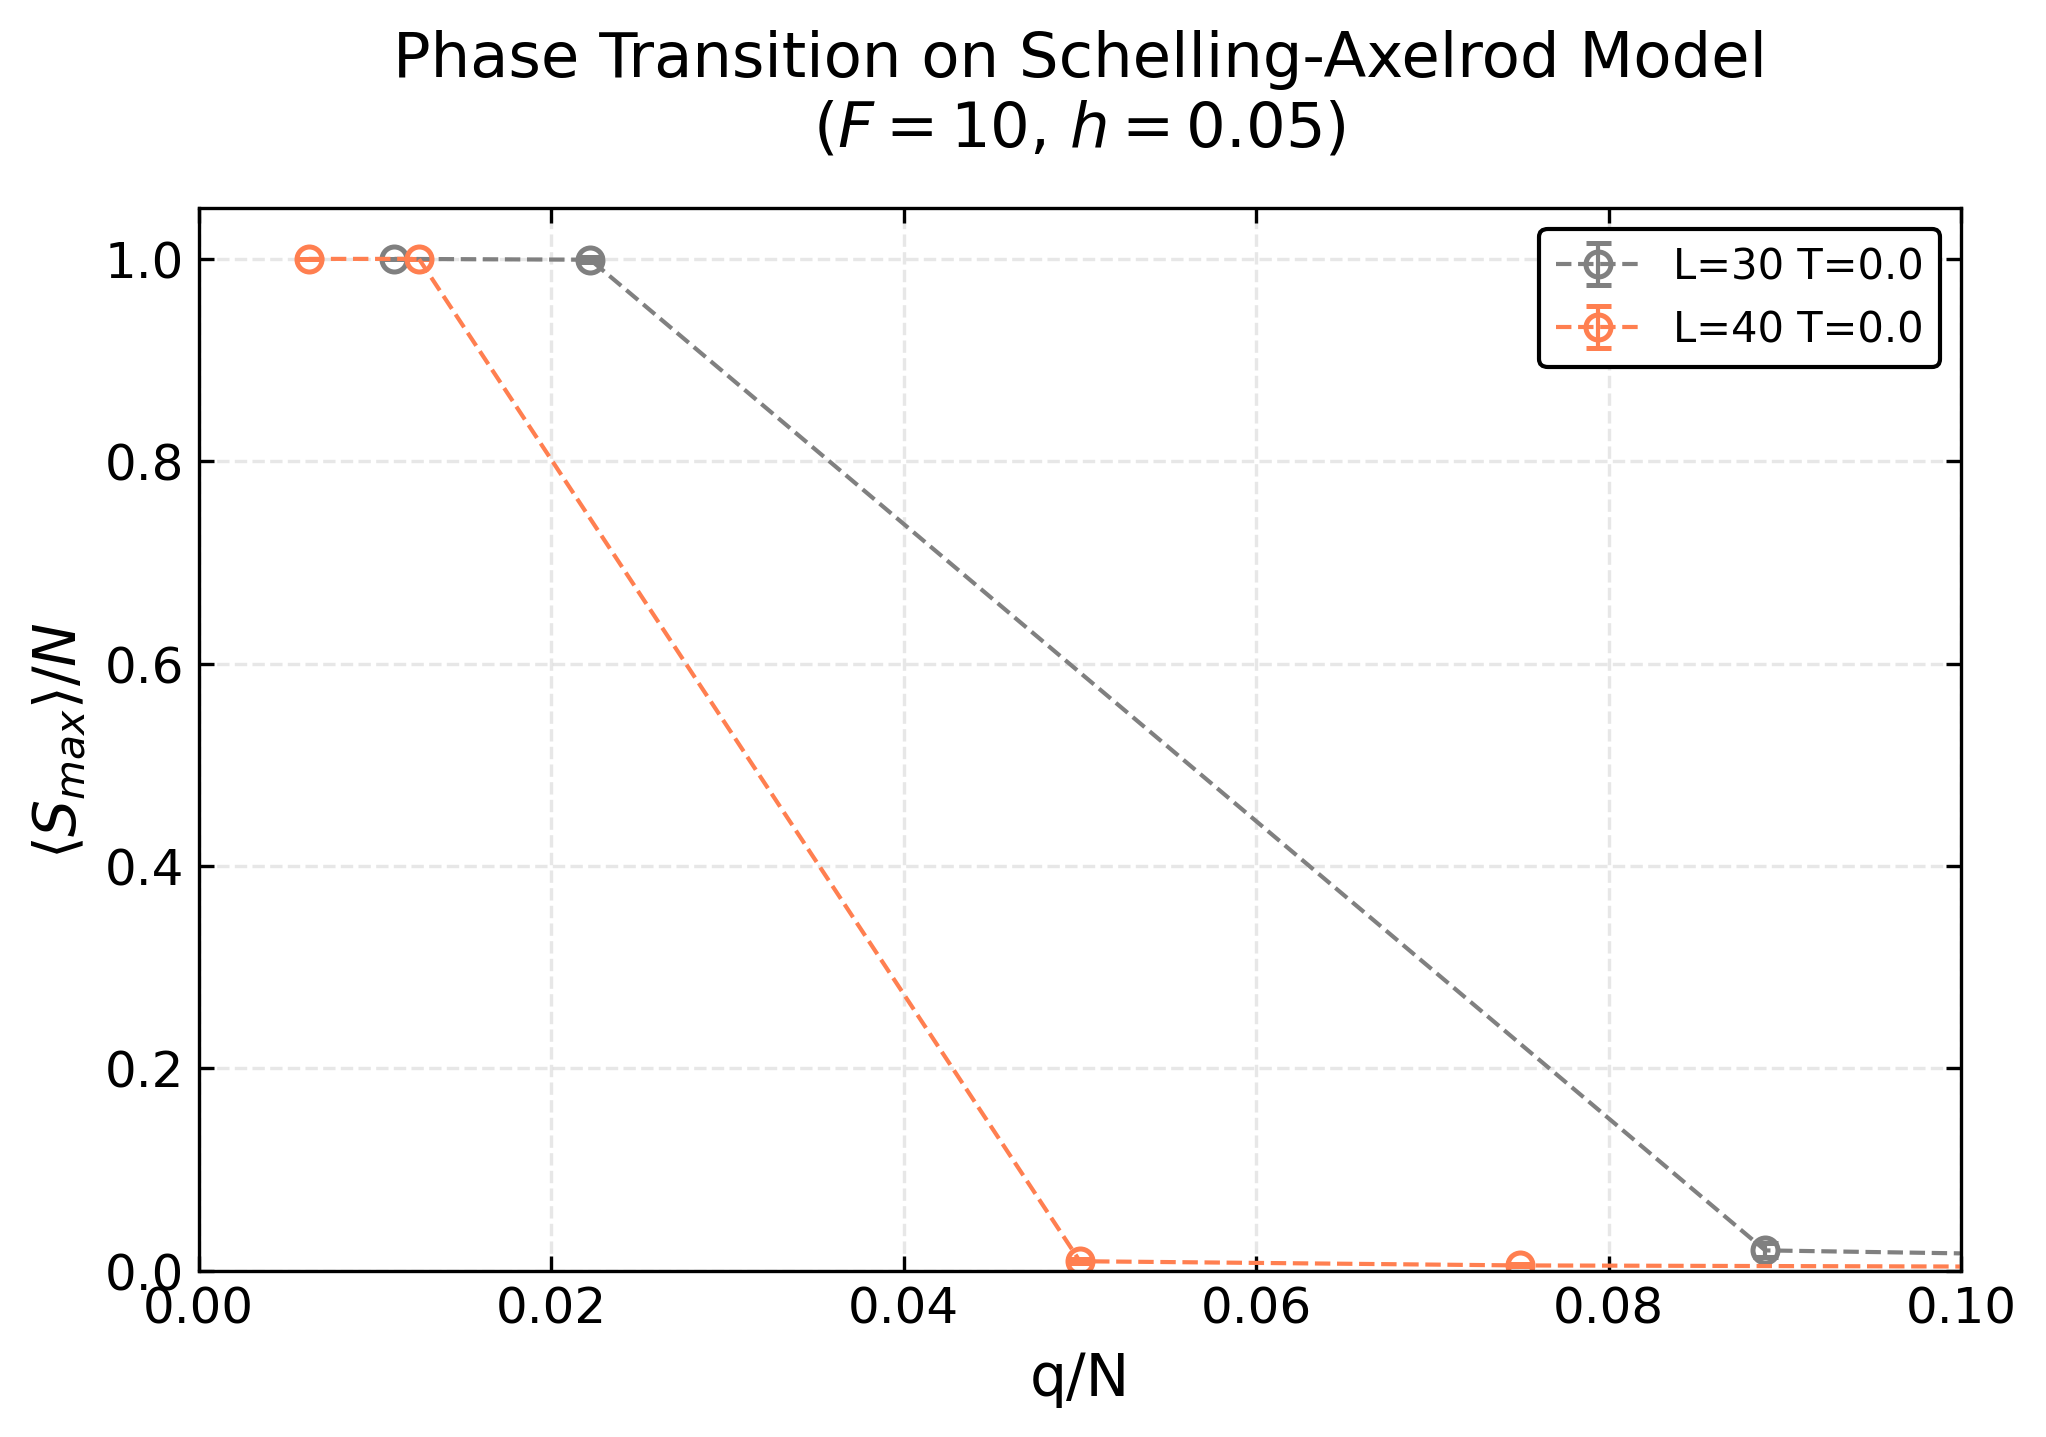
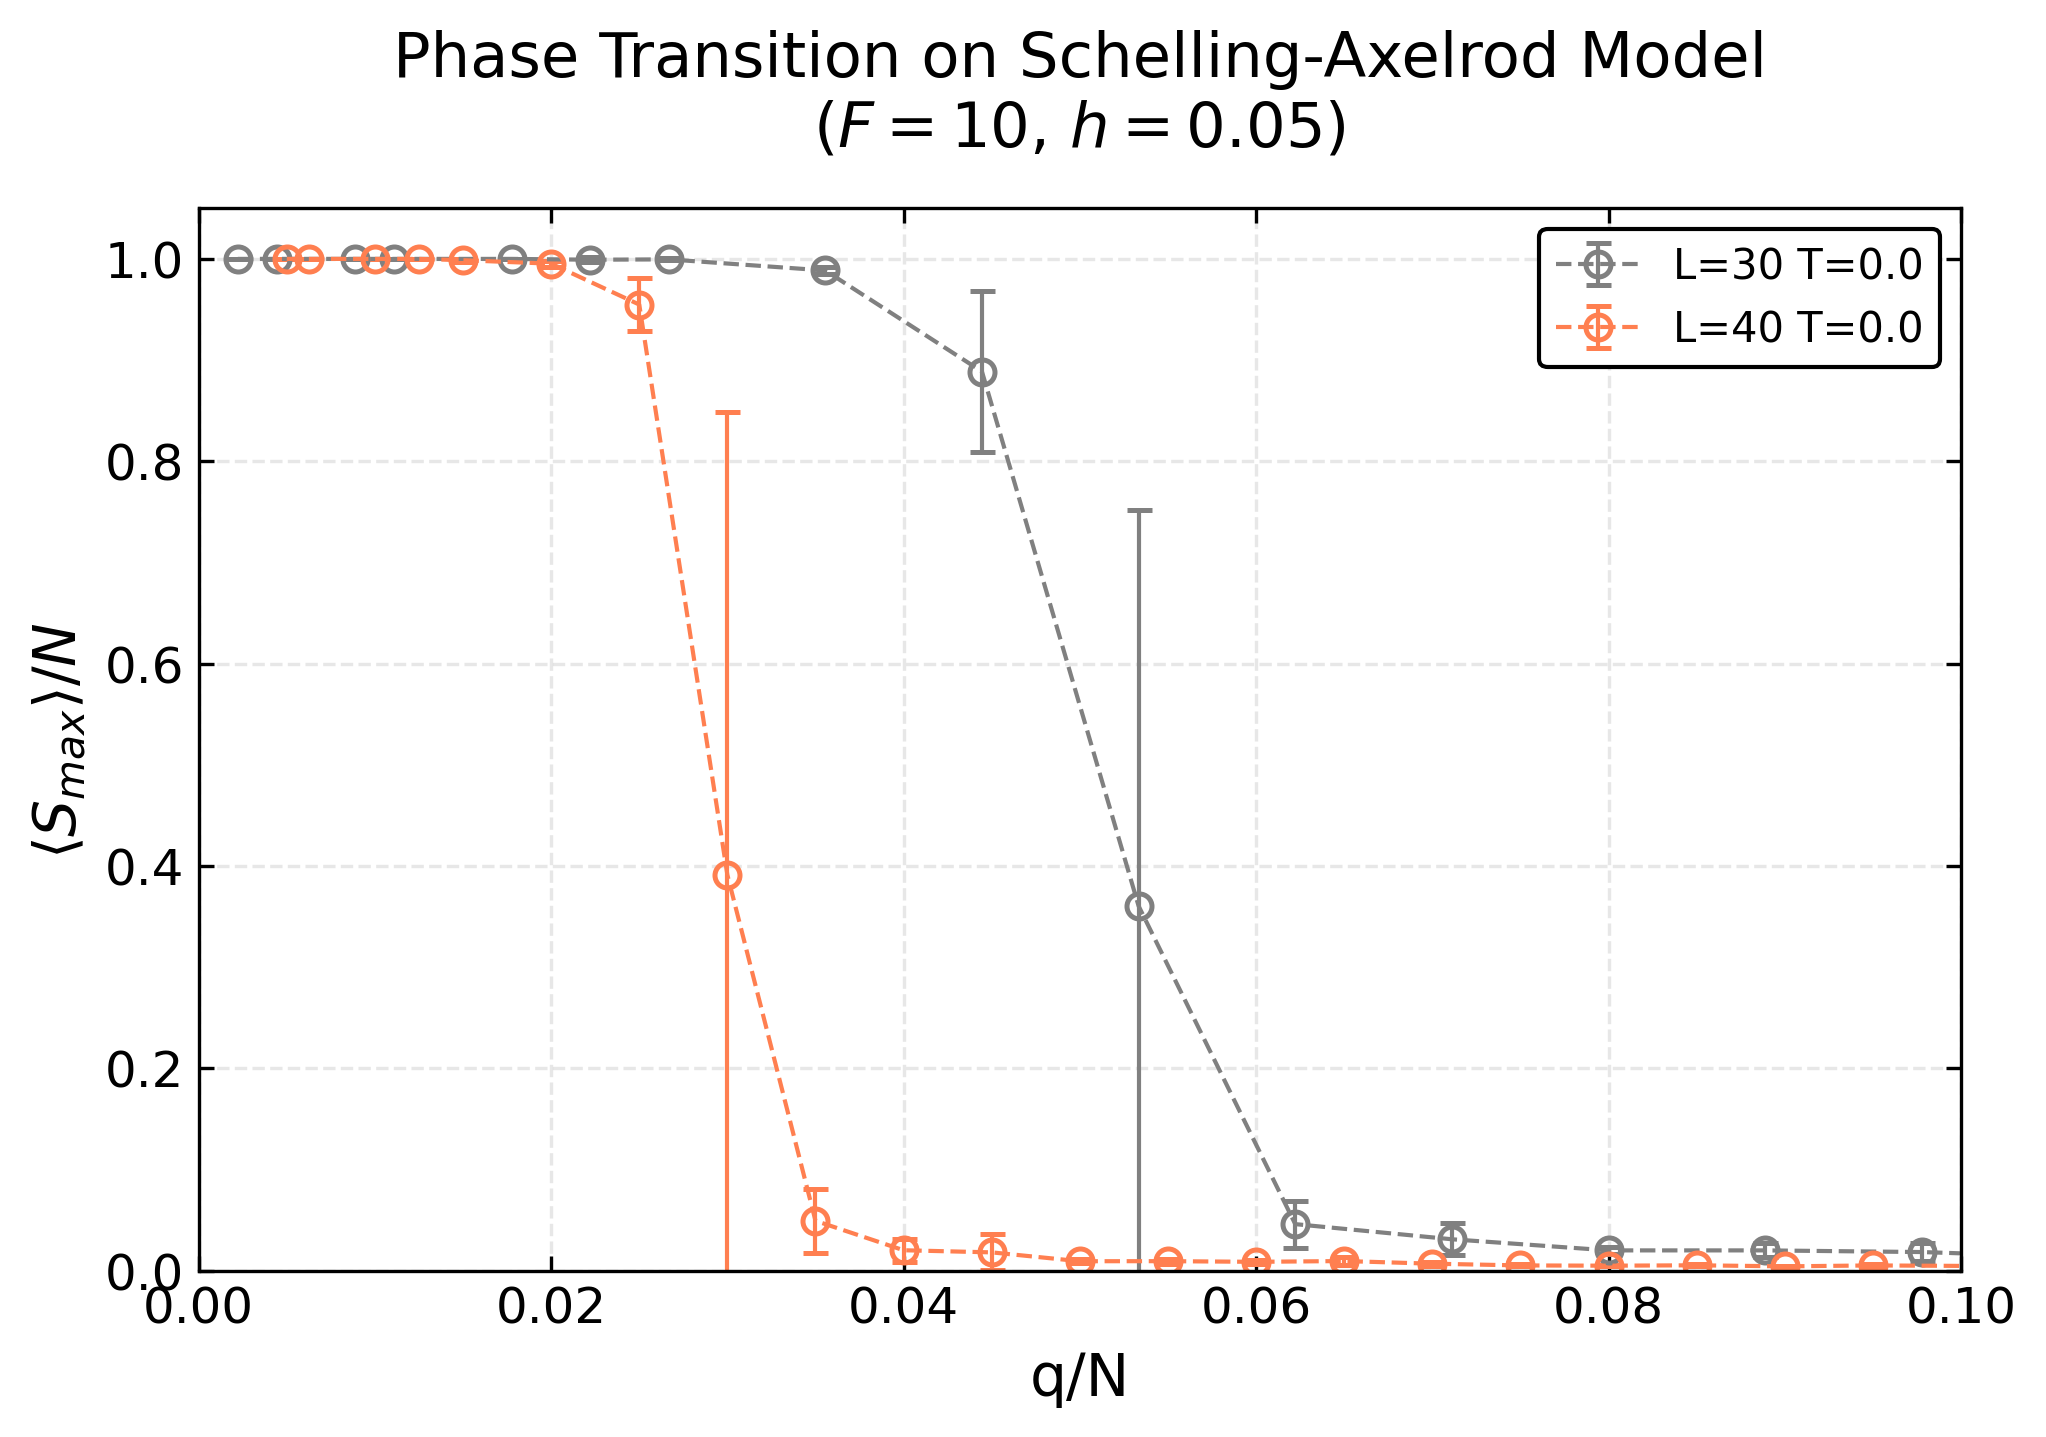
data for schelling  T=! is just regular lattice

diff --git a/get_interval.py b/get_interval.py
@@ -1,0 +1,138 @@
+import numpy as np
+
+L=np.array([30,40])
+N = L**2
+print(N)
+int_upper_lim = 0.1
+data_pts = 20
+
+max_q = max(int_upper_lim*N)
+
+q_list = []
+
+q_per_point = round(max_q / data_pts, 0)
+for i in range(data_pts):
+    q_list.append(int(q_per_point * i))
+
+print(q_list)
+
+'''
+as_experiment:
+  master_seed: 42
+  M_realizations: 10
+  max_mcs: 1000000
+  transient_mcs: 5000 # can be cut down to 5k ??? look at mobility plots
+  sweep:
+    L: [30, 40]
+    F: [10]
+
+    q:
+      [
+        2,
+        4,
+        6,
+        8,
+        10,
+        12,
+        14,
+        16,
+        18,
+        20,
+        22,
+        24,
+        26,
+        28,
+        30,
+        32,
+        34,
+        36,
+        38,
+        40,
+        42,
+        44,
+        46,
+        48,
+        50,
+        52,
+        54,
+        56,
+        58,
+        60,
+        62,
+        64,
+        66,
+        68,
+        70,
+        72,
+        74,
+        76,
+        78,
+        80,
+        82,
+        84,
+        86,
+        88,
+        90,
+        92,
+        94,
+        96,
+        98,
+        100,
+        102,
+        104,
+        106,
+        108,
+        110,
+        112,
+        114,
+        116,
+        118,
+        120,
+        122,
+        124,
+        126,
+        128,
+        130,
+        132,
+        134,
+        136,
+        138,
+        140,
+        142,
+        144,
+        146,
+        148,
+        150,
+        152,
+        154,
+        156,
+        158,
+        160,
+        162,
+        164,
+        166,
+        168,
+        170,
+        172,
+        174,
+        176,
+        178,
+        180,
+        182,
+        184,
+        186,
+        188,
+        190,
+        192,
+        194,
+        196,
+        198,
+      ]
+
+    # h = Fraction of empty sites
+    h: [0.05] #   , 0.3, 0.5, 0.7
+
+    # T = Tolerance
+    T: [1.0] #    0.0, 0.3, 0.5, 0.7,
+
+'''
